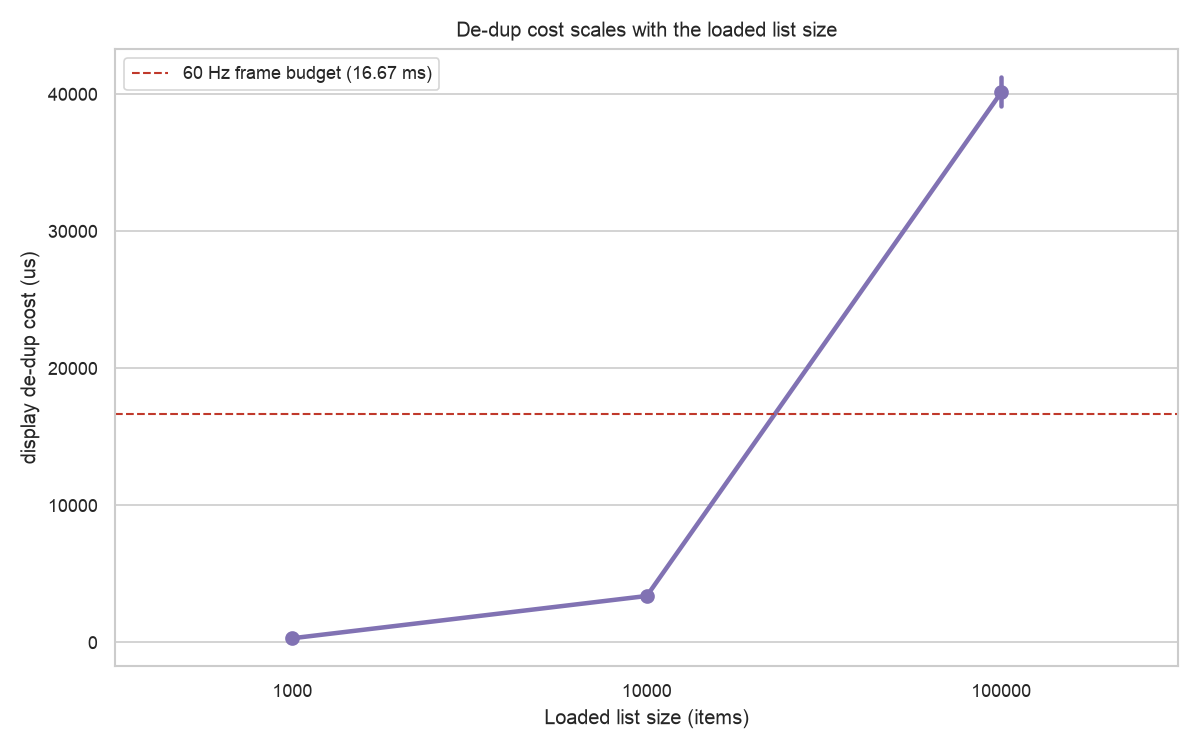
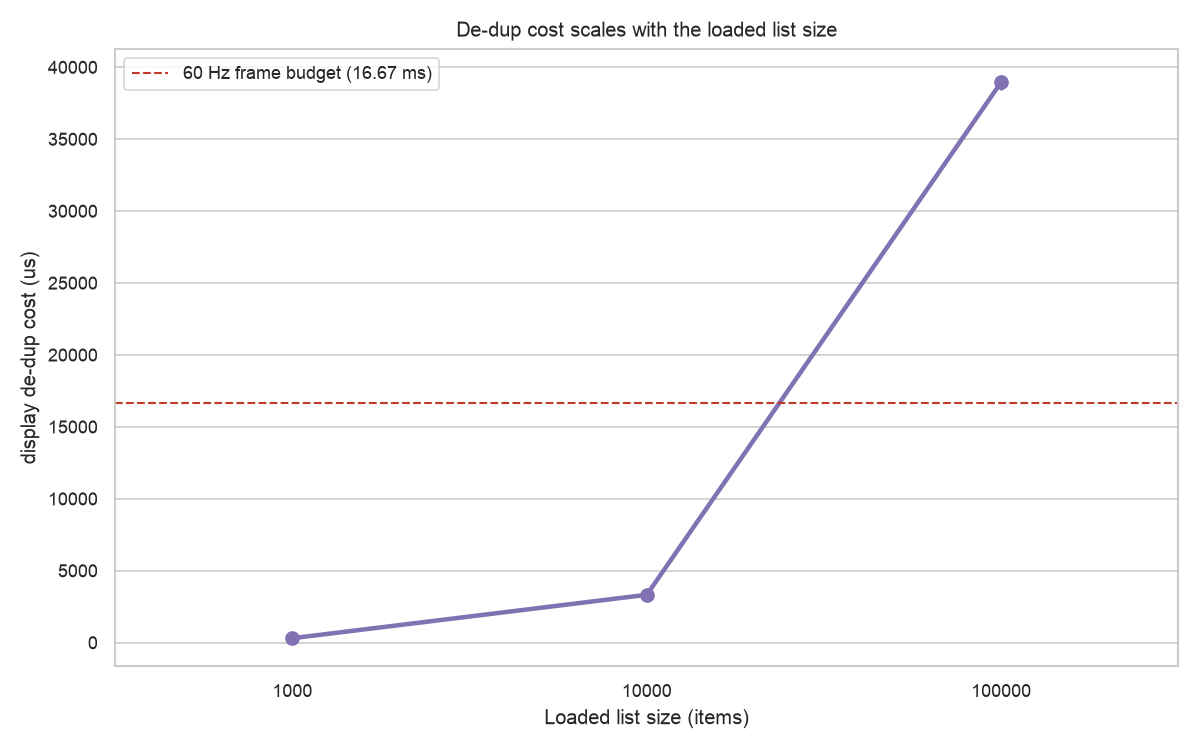
[#73] docs: phone bench report

diff --git a/benchmark/reports/SUMMARY.md b/benchmark/reports/SUMMARY.md
@@ -1,19 +1,23 @@
 # Benchmark results
 
-Captured **2026-10-02** against `1.0.0` at `35b01b5` on Dart SDK 3.13.4. N=10 iterations.
+Captured **2026-10-22** against `2.0.1` at `19e058b` on Dart SDK 3.13.5, UI scenarios on Android, iOS. N=10 iterations.
 
-> Per-machine measurements, reflecting *this* machine's CPU, GPU, GC, OS scheduler and thermal state. Yours WILL differ, so capture your own baseline before measuring a delta.
+> Per-device measurements, reflecting each device's CPU, GPU, GC, OS scheduler and thermal state. Yours WILL differ, so capture your own baseline before measuring a delta.
 
 ## Observer on the critical path: a slow observer blocks rendering
 
-The headline finding. list_smith invokes your observer *synchronously* on the page-load path, so a slow callback lands almost fully on the critical path. `slow_observer` blocks for a set delay on each callback and measures render latency across a sweep of delays: latency tracks the delay ~1:1 on top of a fixed baseline render, so a 50 ms observer pushes ~19 ms to ~69 ms. Keep observer callbacks cheap and do heavy work elsewhere.
+The headline finding. list_smith invokes your observer *synchronously* on the page-load path, so a slow callback lands almost fully on the critical path. `slow_observer` blocks for a set delay on each callback and measures render latency across a sweep of delays: latency tracks the delay ~1:1 on top of a fixed baseline render, so a 50 ms observer pushes ~20 ms to ~70 ms on Android and ~17 ms to ~67 ms on iOS. Keep observer callbacks cheap and do heavy work elsewhere.
 
-| Observer delay (ms) | Median render latency (ms) | Render minus observer (ms) | N |
-|---:|---:|---:|---:|
-| 0 | 17.2 | 17.2 | 10 |
-| 25 | 43.5 | 18.5 | 10 |
-| 50 | 68.5 | 18.5 | 10 |
-| 100 | 118.8 | 18.8 | 10 |
+| Platform | Observer delay (ms) | Median render latency (ms) | Render minus observer (ms) | N |
+|---|---:|---:|---:|---:|
+| Android | 0 | 18.5 | 18.5 | 10 |
+| Android | 25 | 54.1 | 29.1 | 10 |
+| Android | 50 | 70.4 | 20.4 | 10 |
+| Android | 100 | 128.5 | 28.5 | 10 |
+| iOS | 0 | 17.3 | 17.3 | 10 |
+| iOS | 25 | 50.8 | 25.8 | 10 |
+| iOS | 50 | 67.2 | 17.2 | 10 |
+| iOS | 100 | 117.9 | 17.9 | 10 |
 
 
 ![Render latency vs observer delay](observer_latency.png)
@@ -24,9 +28,9 @@ From the `sync_search_scaling` micro (AOT, `benchmark_harness`). `SyncListView` 
 
 | List size | N | Median (us) | IQR (us) | Median (ms) |
 |---:|---:|---:|---:|---:|
-| 1,000 | 10 | 375.72 | 7.02 | 0.38 |
-| 10,000 | 10 | 3,951 | 54.82 | 3.95 |
-| 100,000 | 10 | 41,359 | 505.17 | 41.36 |
+| 1,000 | 10 | 378.72 | 11.39 | 0.38 |
+| 10,000 | 10 | 4,011 | 203.34 | 4.01 |
+| 100,000 | 10 | 41,868 | 656.10 | 41.87 |
 
 
 ![Sync-search scaling](sync_search_scaling.png)
@@ -37,9 +41,9 @@ From the `bucket_by_group_scaling` micro (AOT, `benchmark_harness`). Sync groupi
 
 | List size | N | Median (us) | IQR (us) | Median (ms) |
 |---:|---:|---:|---:|---:|
-| 1,000 | 10 | 231.02 | 1.27 | 0.23 |
-| 10,000 | 10 | 2,372 | 21.03 | 2.37 |
-| 100,000 | 10 | 26,097 | 677.44 | 26.10 |
+| 1,000 | 10 | 235.84 | 9.02 | 0.24 |
+| 10,000 | 10 | 2,440 | 69.48 | 2.44 |
+| 100,000 | 10 | 27,377 | 829.87 | 27.38 |
 
 
 ![Sync grouping scaling](bucket_by_group_scaling.png)
@@ -50,9 +54,9 @@ From the `dedup_scaling` micro (AOT, `benchmark_harness`). The async list de-dup
 
 | Loaded items | N | Median (us) | IQR (us) | Median (ms) |
 |---:|---:|---:|---:|---:|
-| 1,000 | 10 | 302.55 | 9.61 | 0.30 |
-| 10,000 | 10 | 3,388 | 86.66 | 3.39 |
-| 100,000 | 10 | 39,781 | 2,306 | 39.78 |
+| 1,000 | 10 | 300.84 | 11.65 | 0.30 |
+| 10,000 | 10 | 3,313 | 91.06 | 3.31 |
+| 100,000 | 10 | 38,890 | 863.38 | 38.89 |
 
 
 ![De-dup scaling](dedup_scaling.png)
@@ -64,23 +68,32 @@ Confirms the bookkeeping costs ~nothing. `observer_dispatch` is one no-op observ
 | Micro | Metric | Median (us) |
 |---|---|---:|
 | `observer_dispatch` | us / dispatch | 0.011 |
-| `wrapping_overhead` (1 page) | us / key | 0.554 |
-| `wrapping_overhead` (10 pages) | us / key | 1.25 |
-| `wrapping_overhead` (100 pages) | us / key | 7.06 |
+| `wrapping_overhead` (1 page) | us / key | 0.167 |
+| `wrapping_overhead` (10 pages) | us / key | 0.168 |
+| `wrapping_overhead` (100 pages) | us / key | 0.168 |
 
 ## UI scenarios: per-frame build cost
 
-From the profile-mode `integration_test` scenarios, real frames on this machine. `avg`, `worst` and `p99 build` are the UI-thread build cost per frame, which is where list_smith's code runs, and `missed` counts frames over the 16.67ms budget. `isp_scroll` against `bare_listview` (same items and scroll, no list_smith) is the attribution: that small delta is what list_smith adds to a plain list. `edit_transitions_none` makes the same edits as `_size`, `_fade` and `_slide` with no transition, so the gap is what animating them adds.
+From the profile-mode `integration_test` scenarios, real frames on one device per platform. `avg`, `worst` and `p99 build` are the UI-thread build cost per frame, which is where list_smith's code runs, and `missed` counts frames over the 16.67ms budget. `isp_scroll` against `bare_listview` (same items and scroll, no list_smith) is the attribution: that small delta is what list_smith adds to a plain list. `edit_transitions_none` makes the same edits as `_size`, `_fade` and `_slide` with no transition, so the gap is what animating them adds. `_size_scrolled` makes `_size`'s edits just above the screen, where the rows on it are held still.
 
-| Scenario | Frames | Avg build (ms) | Worst build (ms) | p99 build (ms) | Missed |
-|---|---:|---:|---:|---:|---:|
-| `bare_listview` | 610 | 0.61 | 2.08 | 1.77 | 0 |
-| `cri_refresh` | 850 | 0.44 | 1.51 | 1.09 | 0 |
-| `edit_transitions_fade` | 500 | 0.34 | 2.23 | 1.58 | 0 |
-| `edit_transitions_none` | 500 | 0.29 | 2.02 | 1.61 | 0 |
-| `edit_transitions_size` | 500 | 0.48 | 1.87 | 1.61 | 0 |
-| `edit_transitions_slide` | 500 | 0.39 | 2.52 | 1.64 | 0 |
-| `isp_scroll` | 610 | 0.68 | 2.57 | 1.85 | 0 |
+| Scenario | Platform | Frames | Avg build (ms) | Worst build (ms) | p99 build (ms) | Missed |
+|---|---|---:|---:|---:|---:|---:|
+| `bare_listview` | Android | 607 | 1.27 | 5.50 | 3.05 | 0 |
+| `bare_listview` | iOS | 610 | 0.75 | 1.62 | 1.47 | 0 |
+| `cri_refresh` | Android | 850 | 0.88 | 5.96 | 2.76 | 0 |
+| `cri_refresh` | iOS | 849 | 0.40 | 1.96 | 1.71 | 0 |
+| `edit_transitions_fade` | Android | 500 | 1.12 | 9.53 | 8.21 | 0 |
+| `edit_transitions_fade` | iOS | 500 | 0.30 | 1.87 | 1.82 | 0 |
+| `edit_transitions_none` | Android | 500 | 1.14 | 13.18 | 9.34 | 0 |
+| `edit_transitions_none` | iOS | 500 | 0.32 | 3.01 | 2.03 | 0 |
+| `edit_transitions_size` | Android | 500 | 1.14 | 9.17 | 7.35 | 0 |
+| `edit_transitions_size` | iOS | 500 | 0.44 | 1.97 | 1.72 | 0 |
+| `edit_transitions_size_scrolled` | Android | 500 | 1.08 | 10.01 | 9.08 | 0 |
+| `edit_transitions_size_scrolled` | iOS | 500 | 0.34 | 1.83 | 1.71 | 0 |
+| `edit_transitions_slide` | Android | 500 | 1.26 | 10.70 | 9.73 | 0 |
+| `edit_transitions_slide` | iOS | 500 | 0.33 | 1.86 | 1.82 | 0 |
+| `isp_scroll` | Android | 610 | 1.32 | 7.28 | 4.04 | 0 |
+| `isp_scroll` | iOS | 610 | 0.76 | 2.17 | 1.83 | 0 |
 
 
 ![Per-frame build cost](frame_costs.png)
@@ -89,15 +102,24 @@ From the profile-mode `integration_test` scenarios, real frames on this machine.
 
 The same frames on the raster thread, which draws what the build produced. `missed` counts frames over the same budget. `worst` is usually the 1st captured frame, so it swings between runs.
 
-| Scenario | Frames | Avg raster (ms) | Worst raster (ms) | p99 raster (ms) | Missed |
-|---|---:|---:|---:|---:|---:|
-| `bare_listview` | 610 | 1.10 | 9.40 | 3.29 | 0 |
-| `cri_refresh` | 850 | 1.07 | 12.32 | 3.09 | 0 |
-| `edit_transitions_fade` | 500 | 1.13 | 10.37 | 1.92 | 0 |
-| `edit_transitions_none` | 500 | 1.12 | 14.11 | 5.00 | 0 |
-| `edit_transitions_size` | 500 | 1.08 | 8.61 | 1.77 | 0 |
-| `edit_transitions_slide` | 500 | 1.18 | 10.73 | 5.69 | 0 |
-| `isp_scroll` | 610 | 1.11 | 11.35 | 3.24 | 0 |
+| Scenario | Platform | Frames | Avg raster (ms) | Worst raster (ms) | p99 raster (ms) | Missed |
+|---|---|---:|---:|---:|---:|---:|
+| `bare_listview` | Android | 607 | 2.45 | 5.95 | 3.60 | 0 |
+| `bare_listview` | iOS | 610 | 0.66 | 1.33 | 1.23 | 0 |
+| `cri_refresh` | Android | 850 | 2.50 | 8.81 | 3.47 | 0 |
+| `cri_refresh` | iOS | 849 | 0.71 | 64.88 | 0.83 | 1 |
+| `edit_transitions_fade` | Android | 500 | 2.75 | 9.11 | 4.84 | 0 |
+| `edit_transitions_fade` | iOS | 500 | 0.74 | 58.04 | 0.97 | 1 |
+| `edit_transitions_none` | Android | 500 | 2.45 | 7.47 | 3.62 | 0 |
+| `edit_transitions_none` | iOS | 500 | 0.72 | 1.38 | 1.20 | 0 |
+| `edit_transitions_size` | Android | 500 | 2.70 | 12.49 | 4.04 | 0 |
+| `edit_transitions_size` | iOS | 500 | 0.67 | 0.90 | 0.83 | 0 |
+| `edit_transitions_size_scrolled` | Android | 500 | 2.66 | 5.45 | 3.59 | 0 |
+| `edit_transitions_size_scrolled` | iOS | 500 | 0.57 | 1.01 | 0.70 | 0 |
+| `edit_transitions_slide` | Android | 500 | 2.61 | 5.27 | 4.05 | 0 |
+| `edit_transitions_slide` | iOS | 500 | 0.60 | 2.04 | 1.12 | 0 |
+| `isp_scroll` | Android | 610 | 2.47 | 6.15 | 3.43 | 0 |
+| `isp_scroll` | iOS | 610 | 0.60 | 1.19 | 1.05 | 0 |
 
 
 ![Per-frame raster cost](frame_raster_costs.png)

diff --git a/README.md b/README.md
@@ -839,19 +839,19 @@ would come back mid-reload.
 
 ## Performance
 
-Measured on one machine (yours will differ), from the committed
-[benchmark report](benchmark/reports/SUMMARY.md):
+Measured on one phone per platform for the UI rows and on macOS for the rest (yours will differ),
+from the committed [benchmark report](benchmark/reports/SUMMARY.md):
 
-| What                                                 | Cost                                                                          |
-|------------------------------------------------------|-------------------------------------------------------------------------------|
-| Scrolling                                            | within ~0.07 ms/frame of a plain `ListView.builder`, neither dropping a frame |
-| Per-page bookkeeping (end policy, observer dispatch) | sub-microsecond to a few microseconds                                         |
-| A full pull-to-refresh cycle                         | ~0.4 ms/frame to build, none over the 16.67 ms budget                         |
-| Animating edits (size, fade or slide)                | +0.05 to 0.2 ms/frame over the same edits unanimated, none over budget        |
-| Sync search, per committed query                     | ~0.4 ms at 1k items, ~4 ms at 10k, ~41 ms at 100k                             |
-| Sync grouping, per committed query                   | ~0.2 ms at 1k, ~2.4 ms at 10k, ~26 ms at 100k                                 |
-| De-dup by id, per page arriving                      | ~0.3 ms at 1k loaded, ~3.4 ms at 10k, ~40 ms at 100k                          |
-| A 50 ms observer callback                            | pushes render latency to ~69 ms                                               |
+| What                                                 | Cost                                                                                                      |
+|------------------------------------------------------|-----------------------------------------------------------------------------------------------------------|
+| Scrolling                                            | within ~0.05 ms/frame of a plain `ListView.builder` on Android and ~0.01 on iOS, neither dropping a frame |
+| Per-page bookkeeping (end policy, observer dispatch) | under a microsecond                                                                                       |
+| A full pull-to-refresh cycle                         | ~0.9 ms/frame to build on Android and ~0.4 on iOS, none over the 16.67 ms budget                          |
+| Animating edits (size, fade or slide)                | at most ~0.1 ms/frame more to build than the same edits unanimated, none over budget                      |
+| Sync search, per committed query                     | ~0.4 ms at 1k items, ~4 ms at 10k, ~42 ms at 100k                                                         |
+| Sync grouping, per committed query                   | ~0.2 ms at 1k, ~2.4 ms at 10k, ~27 ms at 100k                                                             |
+| De-dup by id, per page arriving                      | ~0.3 ms at 1k loaded, ~3.3 ms at 10k, ~39 ms at 100k                                                      |
+| A 50 ms observer callback                            | pushes render latency to ~70 ms on Android and ~67 ms on iOS                                              |
 
 Sync search and grouping are O(n) per query and cross the frame budget around 100k items, so lean
 on the debounce or go async. De-dup is off the scroll path, and only crosses the budget past tens of
@@ -859,7 +859,7 @@ thousands of items in one live list. Edits run in that same pass, and
 [`edit_layer_scaling`](benchmark/micro/edit_layer_scaling.dart) measures what they add. Observers
 are called synchronously while a page loads: log, count, report, and do heavy work elsewhere.
 
-Numbers are per-machine, so capture your own baseline before trusting a delta. The suite lives in
+Numbers are per-device, so capture your own baseline before trusting a delta. The suite lives in
 [`benchmark/`](benchmark/), and `run.py compare` diffs 2 runs with a Mann-Whitney test.
 
 ![Render latency vs observer delay](benchmark/reports/observer_latency.png)

diff --git a/APPENDIX.md b/APPENDIX.md
@@ -830,6 +830,8 @@ Every Dependabot PR, majors included, auto-merges through the `Auto-merge` job i
   rows by estimate. `animateTo(0)`, or a 2nd `jumpTo(0)`, lands exactly. Undoing the list's own
   corrections at 0 loops past the viewport's 10-cycle limit.
 - **Async only.** `.sync` rows have no ids to find again.
+- **Cost: none measured on Android,** every bench scenario within the regression gate's threshold
+  of main. iOS was too noisy to decide.
 
 ---
 
